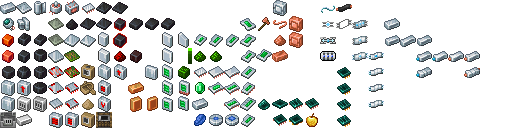
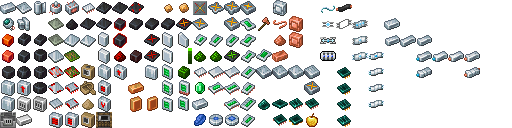
dense iron plate?

diff --git a/src/main/java/io/github/reoseah/hayo/mod_support/jei/ElectricCookingJeiCategory.java b/src/main/java/io/github/reoseah/hayo/mod_support/jei/ElectricCookingJeiCategory.java
@@ -4,17 +4,22 @@ import io.github.reoseah.hayo.base.client.HayoGuiSprites;
 import io.github.reoseah.hayo.feature.energy.EnergyTexts;
 import io.github.reoseah.hayo.feature.processing_machines.electric_furnace.ElectricFurnaceBlockEntity;
 import mezz.jei.api.gui.builder.IRecipeLayoutBuilder;
+import mezz.jei.api.gui.builder.ITooltipBuilder;
 import mezz.jei.api.gui.drawable.IDrawable;
 import mezz.jei.api.gui.ingredient.IRecipeSlotsView;
 import mezz.jei.api.recipe.IFocusGroup;
 import mezz.jei.api.recipe.RecipeIngredientRole;
 import mezz.jei.api.recipe.category.IRecipeCategory;
 import mezz.jei.api.recipe.types.IRecipeType;
+import net.minecraft.ChatFormatting;
 import net.minecraft.client.Minecraft;
 import net.minecraft.client.gui.GuiGraphics;
 import net.minecraft.network.chat.Component;
+import net.minecraft.util.Mth;
 import net.minecraft.world.item.crafting.AbstractCookingRecipe;
 import net.minecraft.world.item.crafting.RecipeHolder;
+
+import java.util.List;
 
 public class ElectricCookingJeiCategory implements IRecipeCategory<RecipeHolder<? extends AbstractCookingRecipe>> {
     private static final int ENERGY_USE_RATE = ElectricFurnaceBlockEntity.ENERGY_USE_RATE;
@@ -66,13 +71,29 @@ public class ElectricCookingJeiCategory implements IRecipeCategory<RecipeHolder<
     }
 
     @Override
-    public void draw(RecipeHolder<? extends AbstractCookingRecipe> recipe, IRecipeSlotsView recipeSlotsView, GuiGraphics graphics, double mouseX, double mouseY) {
+    public void draw(RecipeHolder<? extends AbstractCookingRecipe> holder, IRecipeSlotsView recipeSlotsView, GuiGraphics graphics, double mouseX, double mouseY) {
         HayoGuiSprites.drawMachineEnergy(graphics, 1, 20, 10, 14);
 
-        int energyCost = ElectricFurnaceBlockEntity.energyCostFromCookingTime(recipe.value());
+        int energyCost = ElectricFurnaceBlockEntity.energyCostFromCookingTime(holder.value());
         int progress = (int) ((System.currentTimeMillis() / (TICK_IN_MILLISECONDS * energyCost / ENERGY_USE_RATE / 24)) % 24d);
         HayoGuiSprites.drawRecipeArrow(graphics, 24, 4, HayoGuiSprites.RecipeArrow.DEFAULT, progress, 24);
 
         graphics.drawString(Minecraft.getInstance().font, EnergyTexts.amount(energyCost), 19, 24, 0xFF404040, false);
+    }
+
+    @Override
+    public void getTooltip(ITooltipBuilder tooltip, RecipeHolder<? extends AbstractCookingRecipe> holder, IRecipeSlotsView slots, double mouseX, double mouseY) {
+        if (mouseX >= 1 && mouseX <= 1 + 24 && mouseY >= 20 && mouseY <= 20 + 24 //
+                || mouseX > 24 && mouseX <= 24 + 24 && mouseY > 4 && mouseY <= 4 + 16) {
+            var recipe = holder.value();
+
+            int energyCost = ElectricFurnaceBlockEntity.energyCostFromCookingTime(recipe);
+            int progress = (int) ((System.currentTimeMillis() / (TICK_IN_MILLISECONDS * energyCost / ENERGY_USE_RATE / 24)) % 24d);
+            float duration = Mth.positiveCeilDiv(energyCost, ENERGY_USE_RATE) / 20F;
+
+            tooltip.addAll(List.of( //
+                    EnergyTexts.amount(energyCost), //
+                    EnergyTexts.durationAtAmountPerTick(duration, ENERGY_USE_RATE).withStyle(ChatFormatting.GRAY)));
+        }
     }
 }

diff --git a/src/main/java/io/github/reoseah/hayo/Hayo.java b/src/main/java/io/github/reoseah/hayo/Hayo.java
@@ -452,7 +452,7 @@ public class Hayo {
                     .component(EnergyComponents.ENERGY_BACKPACK, Unit.INSTANCE);
         }
 
-        public static final Item BATTERY_PACK = registerItem("battery_pack", ElectricItem::new, createBatteryPackProperties(60, 32));
+        public static final Item BATTERY_PACK = registerItem("battery_pack", ElectricItem::new, createBatteryPackProperties(60_000, 32));
         public static final Item ADVANCED_BATTERY_PACK = registerItem("advanced_battery_pack", ElectricItem::new, createBatteryPackProperties(300_000, 128));
 
         private static Item.Properties createBatteryProperties(int capacity, int transferLimit) {
@@ -482,7 +482,6 @@ public class Hayo {
 
         public static final Item STICKY_RESIN = registerItem("sticky_resin");
         public static final Item RUBBER = registerItem("rubber");
-        public static final Item REFINED_IRON_FOIL = registerItem("refined_iron_foil");
         public static final Item COPPER_WIRE = registerItem("copper_wire");
         public static final Item GLASS_FIBER = registerItem("glass_fiber");
         public static final Item CIRCUIT = registerItem("circuit");
@@ -497,6 +496,8 @@ public class Hayo {
         public static final Item QUANTUM_PLATE = registerItem("quantum_plate", new Item.Properties().rarity(Rarity.UNCOMMON));
         public static final Item COMPRESSED_PLANTS = registerItem("compressed_plants");
         public static final Item CANISTER = registerItem("canister");
+        public static final Item DENSE_REFINED_IRON_PLATE = registerItem("dense_refined_iron_plate");
+        public static final Item REINFORCED_IRRADIANT_CORE = registerItem("reinforced_irradiant_core");
 
         public static final Item OVERCLOCK_UPGRADE = registerItem("overclock_upgrade", new Item.Properties().rarity(Rarity.RARE).stacksTo(16));
         public static final Item CAPACITOR_UPGRADE = registerItem("capacitor_upgrade", new Item.Properties().rarity(Rarity.RARE).stacksTo(16));
@@ -617,7 +618,6 @@ public class Hayo {
 
                 entries.accept(STICKY_RESIN);
                 entries.accept(RUBBER);
-                entries.accept(REFINED_IRON_FOIL);
                 entries.accept(COPPER_WIRE);
                 entries.accept(GLASS_FIBER);
                 entries.accept(CIRCUIT);
@@ -633,6 +633,8 @@ public class Hayo {
                 entries.accept(QUANTUM_PLATE);
                 entries.accept(COMPRESSED_PLANTS);
                 entries.accept(CANISTER);
+                entries.accept(DENSE_REFINED_IRON_PLATE);
+                entries.accept(REINFORCED_IRRADIANT_CORE);
 
                 entries.accept(OVERCLOCK_UPGRADE);
                 entries.accept(CAPACITOR_UPGRADE);

diff --git a/src/main/java/io/github/reoseah/hayo/feature/processing_machines/ClassicMachineScreen.java b/src/main/java/io/github/reoseah/hayo/feature/processing_machines/ClassicMachineScreen.java
@@ -34,7 +34,7 @@ public class ClassicMachineScreen extends HayoContainerScreen<MachineMenu> {
             HayoGuiSprites.drawSlot(graphics, screen.leftPos + slot.x - 1, screen.topPos + slot.y - 1);
         }
 
-        HayoGuiSprites.drawOutputSlot(graphics, screen.leftPos + screen.menu.slots.get(2).x - 5, screen.topPos + screen.menu.slots.get(2).y - 5);
+        HayoGuiSprites.drawOutputSlot(graphics, screen.leftPos + screen.menu.slots.get(2).x - 4, screen.topPos + screen.menu.slots.get(2).y - 4);
 
         for (var slot : screen.menu.slots.subList(3, 7)) {
             HayoGuiSprites.drawUpgradeSlot(graphics, screen.leftPos + slot.x - 1, screen.topPos + slot.y - 1);
@@ -98,10 +98,9 @@ public class ClassicMachineScreen extends HayoContainerScreen<MachineMenu> {
                 return tooltip;
             } else {
                 tooltip.add(Component.translatable("hayo.use_rate_scales_with_heat").withStyle(ChatFormatting.DARK_AQUA));
-                tooltip.add(EnergyTexts.overclockUseRate(300).withStyle(ChatFormatting.DARK_AQUA));
                 tooltip.add(Component.translatable("hayo.heat.max", 10000).withStyle(ChatFormatting.DARK_AQUA));
                 tooltip.add(Component.translatable("hayo.heat.amount_per_tick_when_active", "+1").withStyle(ChatFormatting.DARK_AQUA));
-                tooltip.add(Component.translatable("hayo.heat.amount_per_tick_when_inactive", "-4").withStyle(ChatFormatting.DARK_AQUA));
+                tooltip.add(EnergyTexts.overclockUseRate(300).withStyle(ChatFormatting.DARK_AQUA));
             }
         }
         return tooltip;
